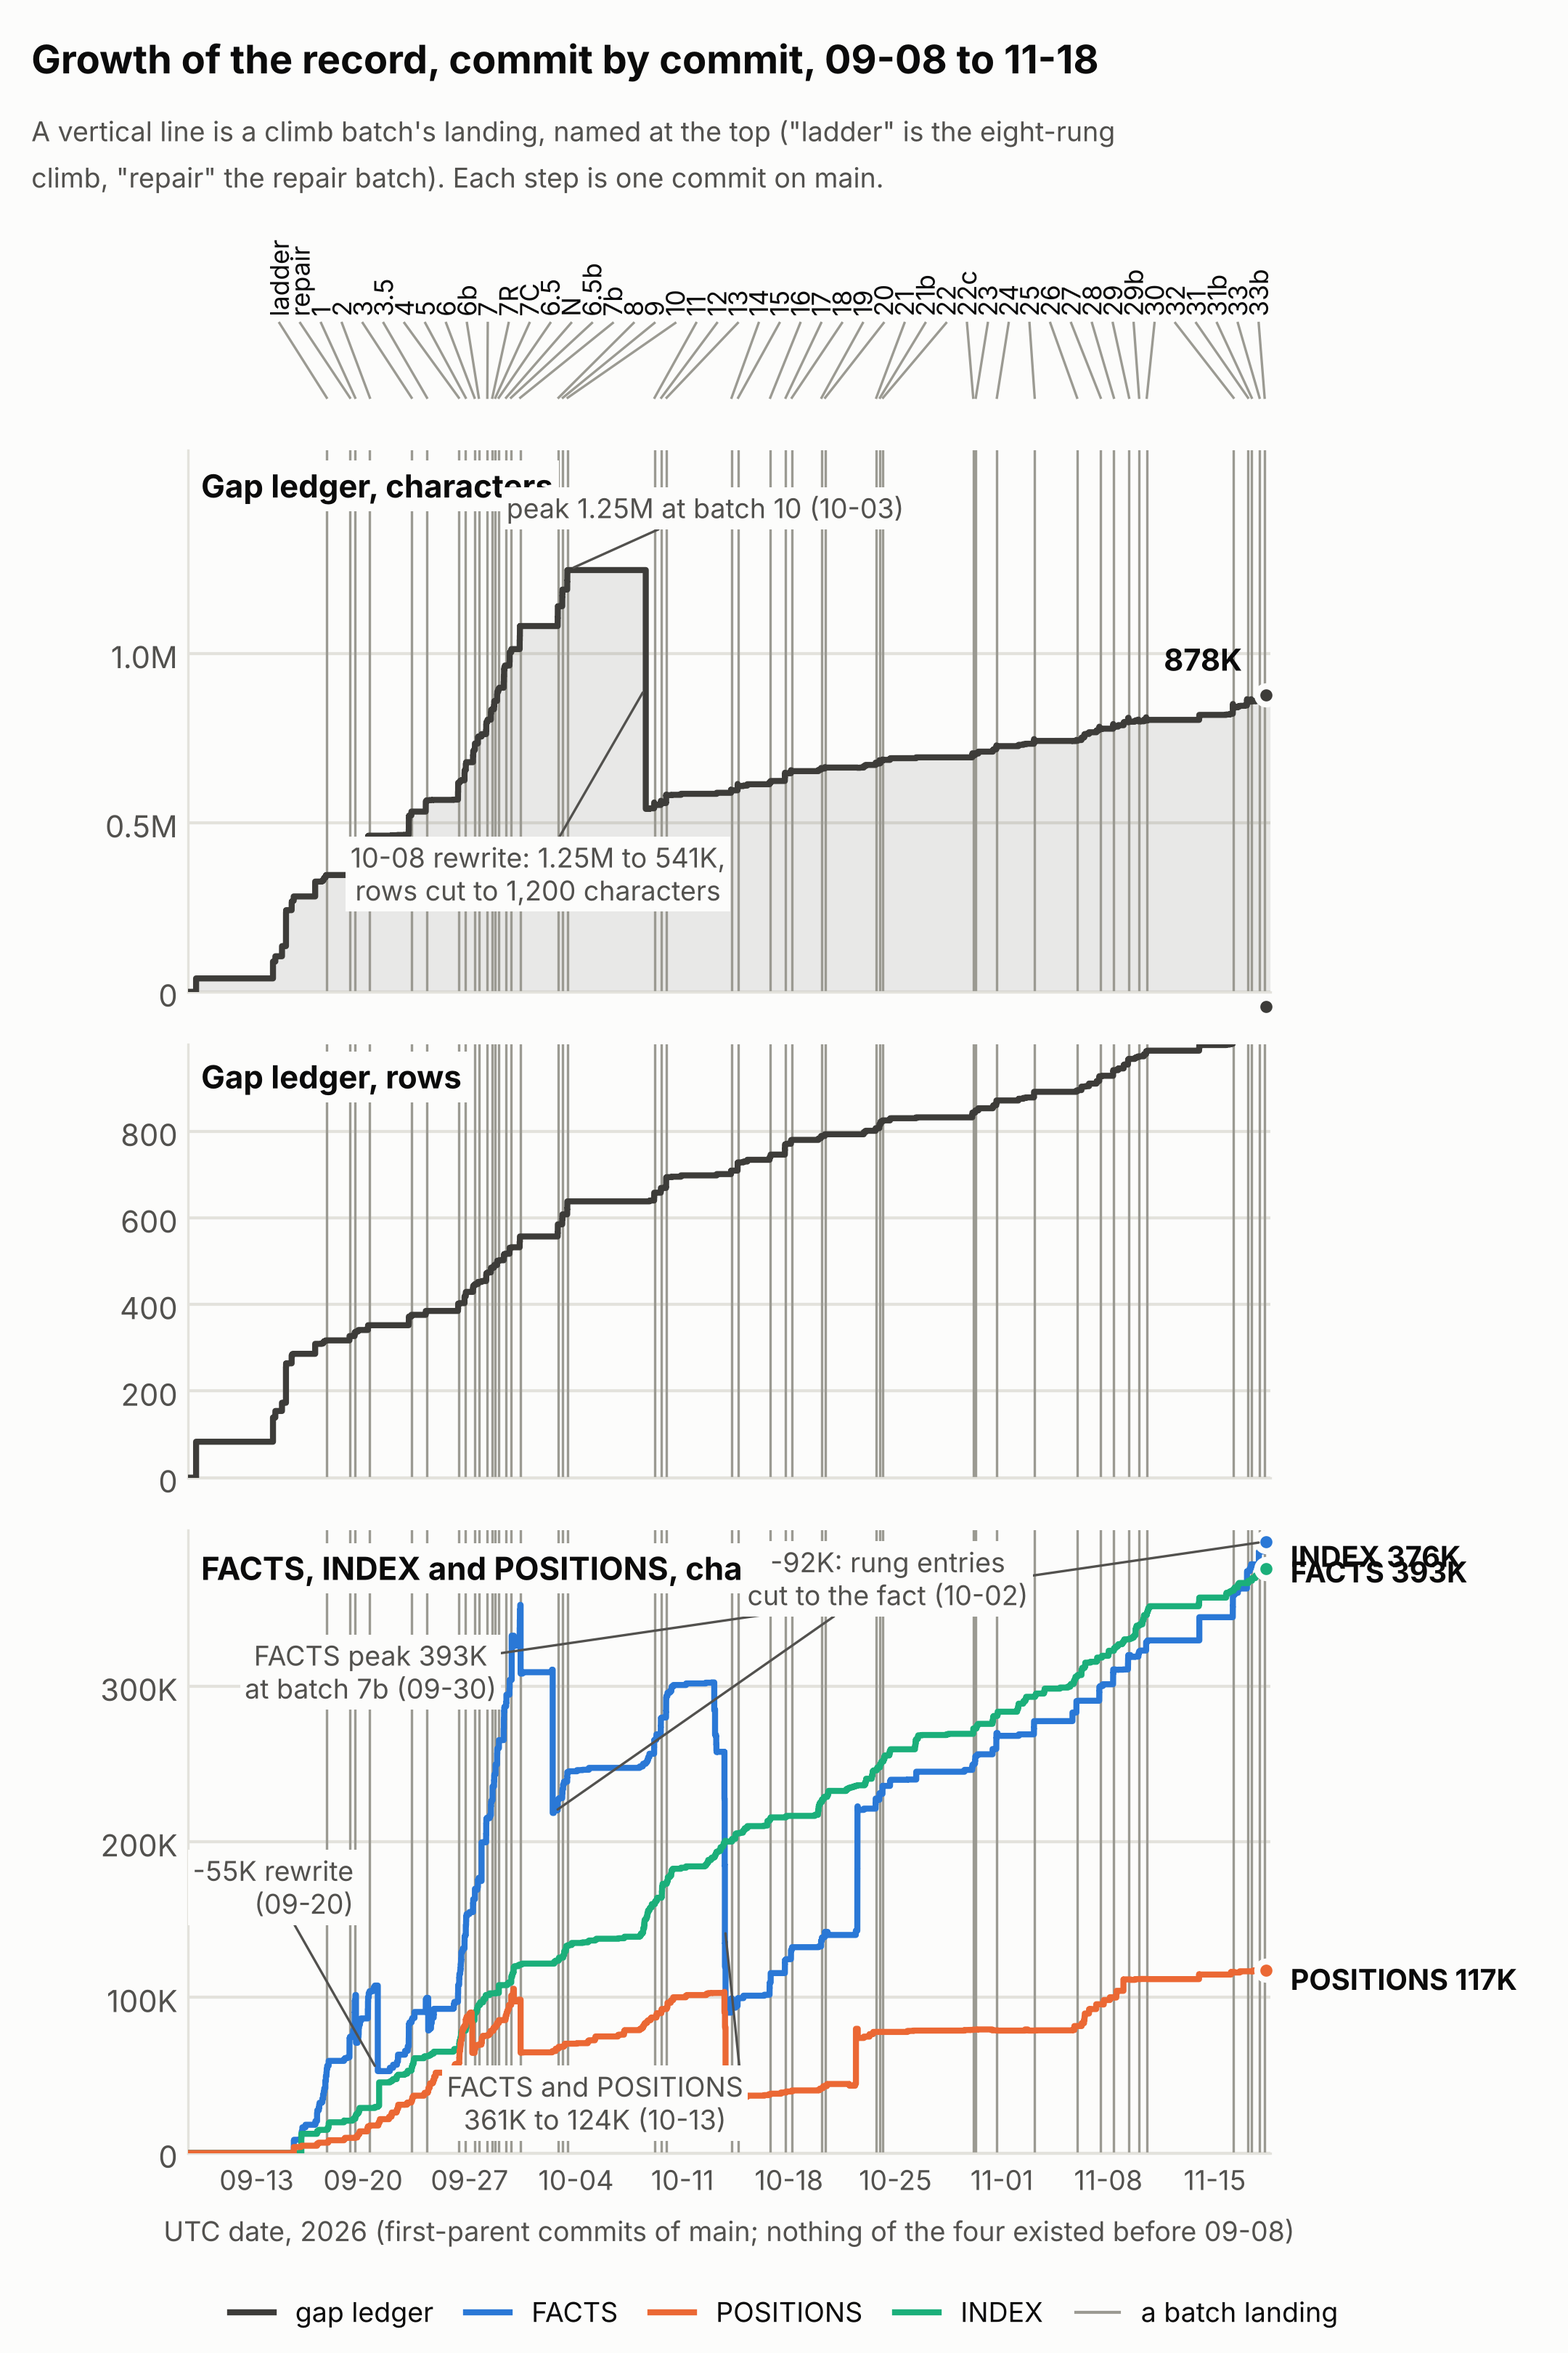
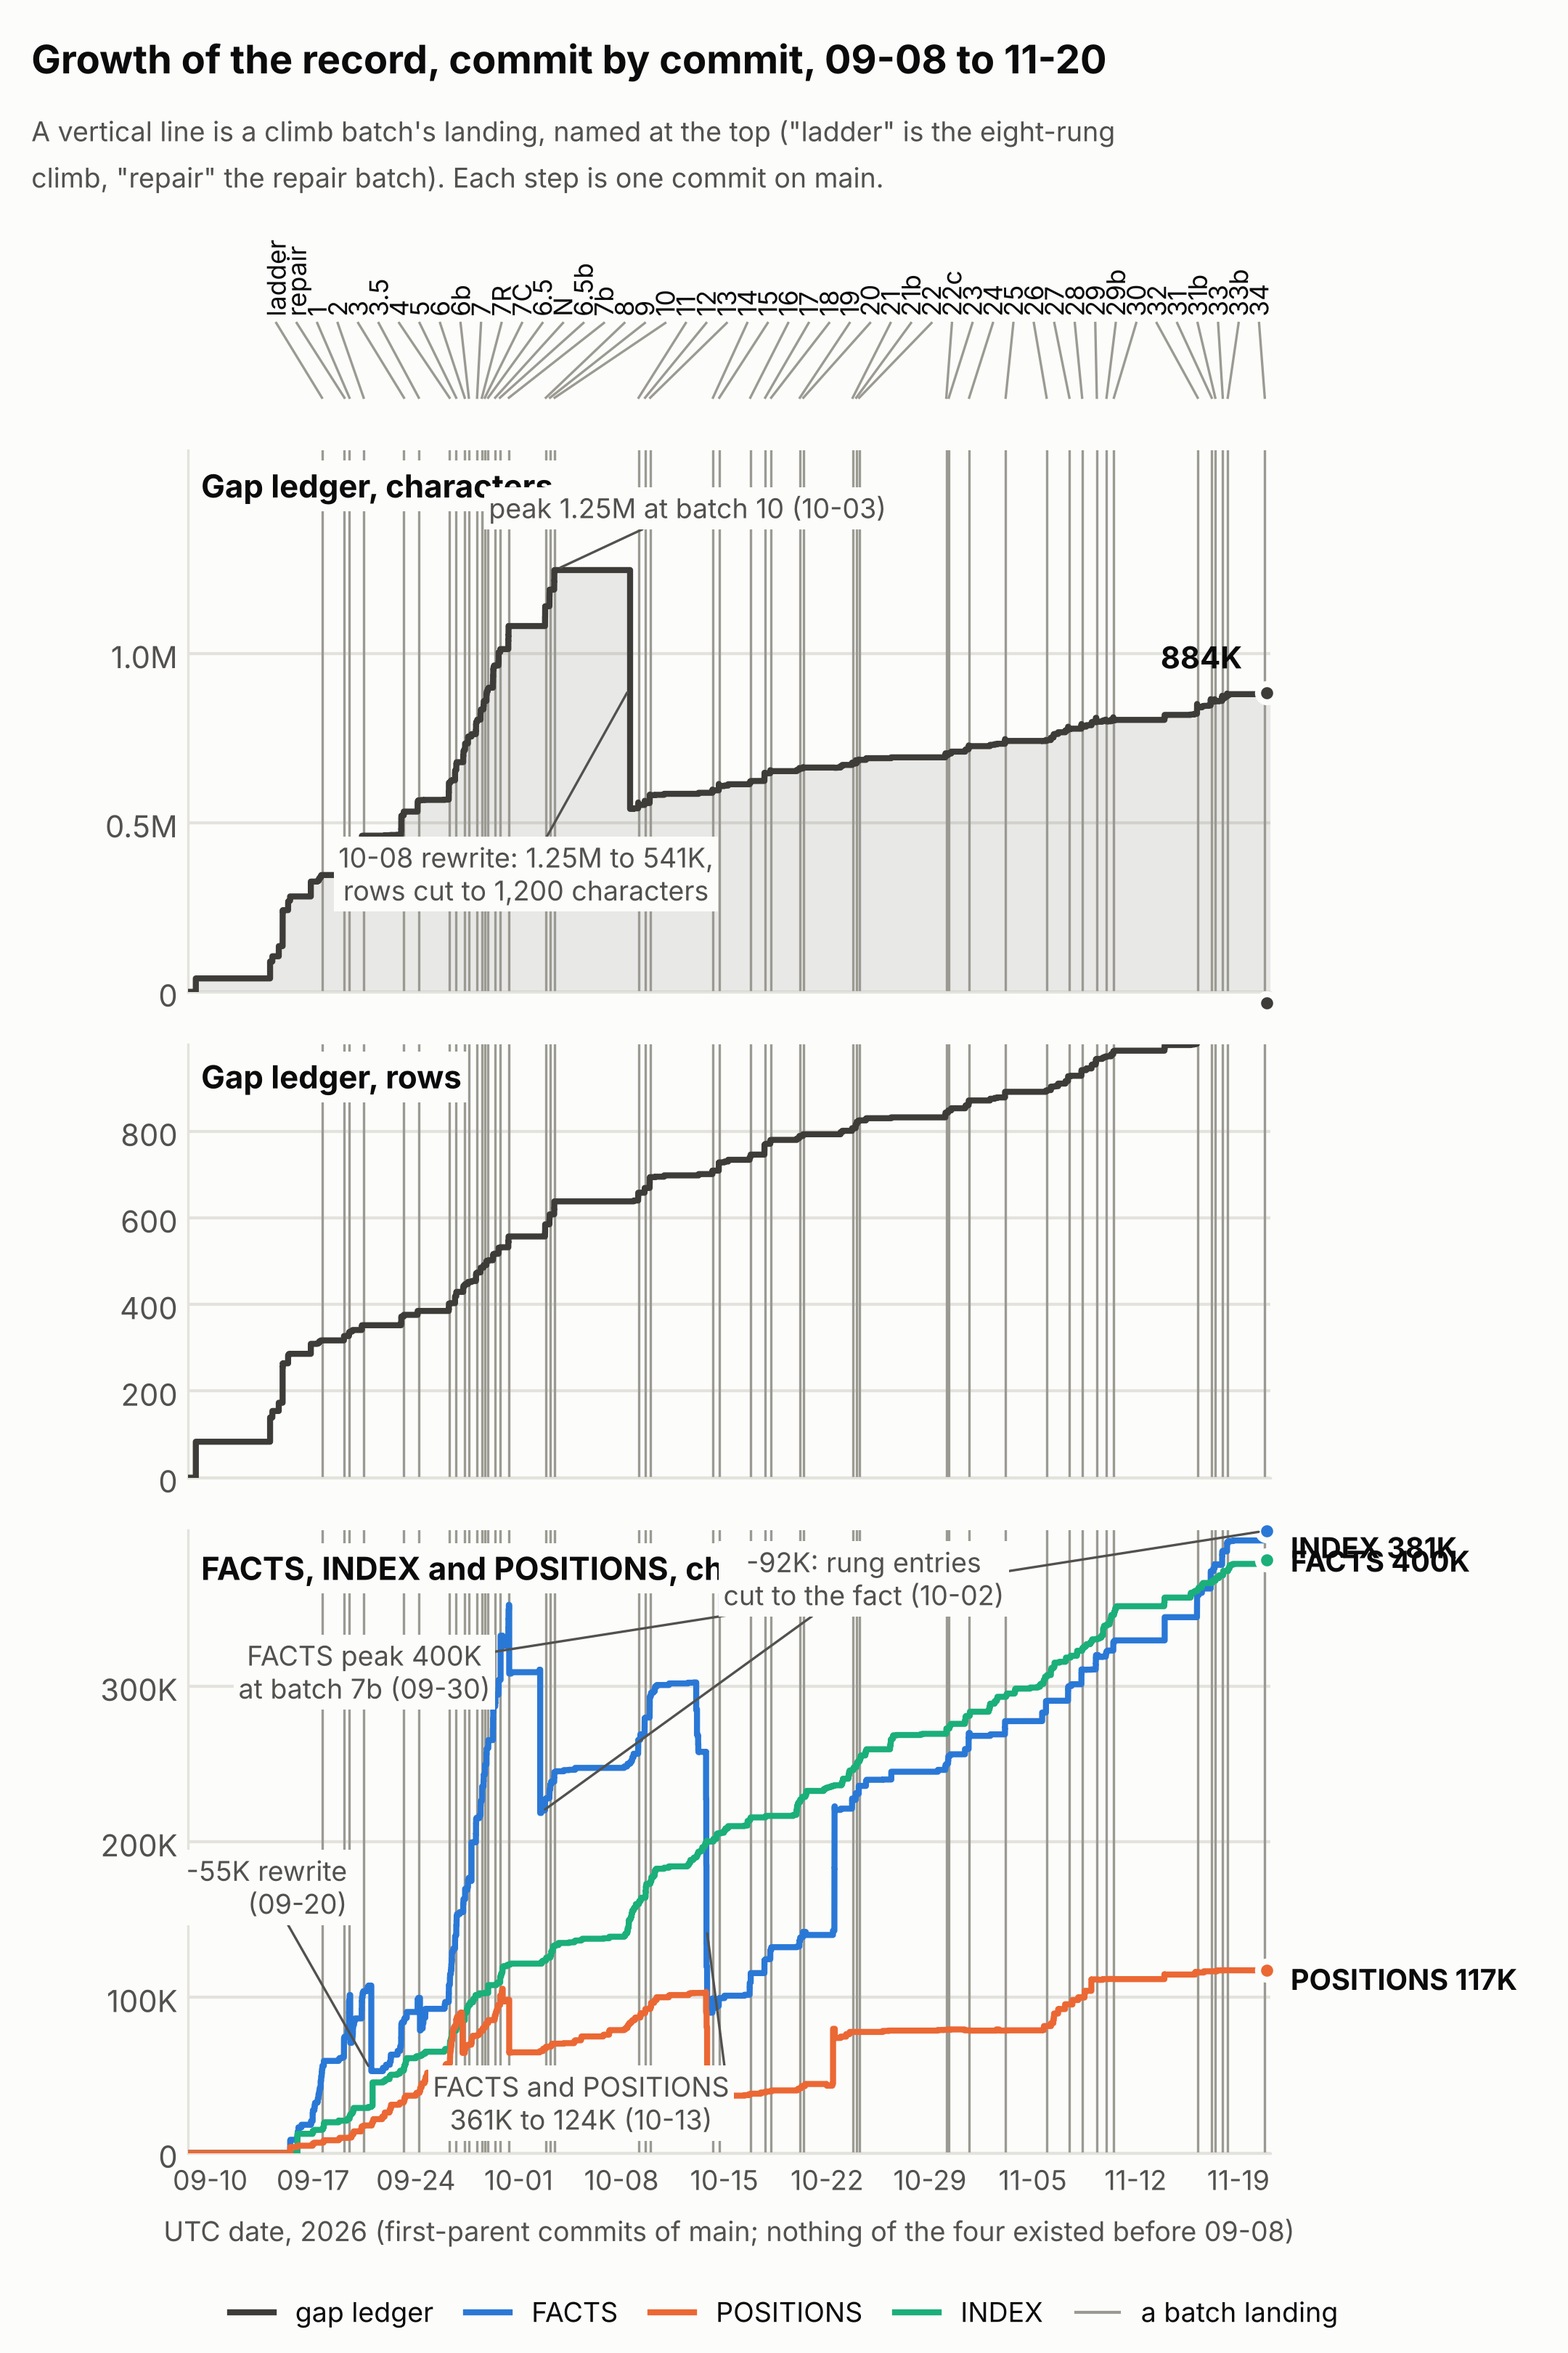
Revival page: where it stands at the landing of climb batch 34, the record chart regenerated
By the climb batch 34 landing workflow.

Claude-Session: https://claude.ai/code/session_01AmiXNpJxQ6TBwec4vJZHDB

Changed region(s): [[0.1241, 0.0935, 0.9306, 0.9352], [0.6824, 0.0, 0.7134, 0.0312]]

diff --git a/docs/revival-story/index.html b/docs/revival-story/index.html
@@ -201,7 +201,7 @@ details.words dl.gloss dd { margin-left: 1em; }
 <p>A script rewrites the block below at each landing, from the plan and the gate. The rest of the page changes only when a phase ends.</p>
 <div class="intro">
 <!-- stand:begin -->
-<p><strong>Where it stands, at the landing of batch 33b on 18 November 2026</strong></p>
+<p><strong>Where it stands, at the landing of batch 34 on 20 November 2026</strong></p>
 <ul>
 <li><strong>Phase:</strong> 4 of 6, which ends with the switch-over, since 30 October.</li>
 <li><strong>Checker count:</strong> 0.</li>
@@ -302,7 +302,7 @@ details.words dl.gloss dd { margin-left: 1em; }
 <section id="the-record" class="part">
 <h2>7. The record</h2>
 <p>The record is the project's notes, kept in the repository beside the team's code. Its main parts are the gap ledger (section 5), the list of facts, the list of the curator's decisions, and an index of all notes. An agent reads the parts its task needs before it starts, so no agent works out again what the record holds.</p>
-<figure><img src="record-growth.png" alt="The gap ledger&#x27;s characters and rows, and FACTS, POSITIONS and INDEX, commit by commit from 09-08 to 11-18, with each batch&#x27;s landing marked" width="1080" height="1620"></figure>
+<figure><img src="record-growth.png" alt="The gap ledger&#x27;s characters and rows, and FACTS, POSITIONS and INDEX, commit by commit from 09-08 to 11-20, with each batch&#x27;s landing marked" width="1080" height="1620"></figure>
 <p>The chart has three panels on one time axis, with a vertical line at each batch's landing. They show the ledger's characters, its rows, and the sizes of the facts, the decisions and the index. The ledger grows mostly while batches run, and the index by one line for each new note. Each sharp fall is a rewrite that shortened the entries, with the earlier text kept in history.</p>
 </section>
 <footer>

diff --git a/explorations/coordinator/process-engineering/revival-story.html b/explorations/coordinator/process-engineering/revival-story.html
@@ -194,7 +194,7 @@ details.words dl.gloss dd { margin-left: 1em; }
 <p>A script rewrites the block below at each landing, from the plan and the gate. The rest of the page changes only when a phase ends.</p>
 <div class="intro">
 <!-- stand:begin -->
-<p><strong>Where it stands, at the landing of batch 33b on 18 November 2026</strong></p>
+<p><strong>Where it stands, at the landing of batch 34 on 20 November 2026</strong></p>
 <ul>
 <li><strong>Phase:</strong> 4 of 6, which ends with the switch-over, since 30 October.</li>
 <li><strong>Checker count:</strong> 0.</li>
@@ -295,7 +295,7 @@ details.words dl.gloss dd { margin-left: 1em; }
 <section id="the-record" class="part">
 <h2>7. The record</h2>
 <p>The record is the project's notes, kept in the repository beside the team's code. Its main parts are the gap ledger (section 5), the list of facts, the list of the curator's decisions, and an index of all notes. An agent reads the parts its task needs before it starts, so no agent works out again what the record holds.</p>
-<figure><img src="record-growth.png" alt="The gap ledger&#x27;s characters and rows, and FACTS, POSITIONS and INDEX, commit by commit from 09-08 to 11-18, with each batch&#x27;s landing marked" width="1080" height="1620"></figure>
+<figure><img src="record-growth.png" alt="The gap ledger&#x27;s characters and rows, and FACTS, POSITIONS and INDEX, commit by commit from 09-08 to 11-20, with each batch&#x27;s landing marked" width="1080" height="1620"></figure>
 <p>The chart has three panels on one time axis, with a vertical line at each batch's landing. They show the ledger's characters, its rows, and the sizes of the facts, the decisions and the index. The ledger grows mostly while batches run, and the index by one line for each new note. Each sharp fall is a rewrite that shortened the entries, with the earlier text kept in history.</p>
 </section>
 <footer>

diff --git a/explorations/coordinator/process-engineering/revival-story.md b/explorations/coordinator/process-engineering/revival-story.md
@@ -124,7 +124,7 @@ A reading is one interpretation of a rule where the specification's text allows 
 A script rewrites the block below at each landing, from the plan and the gate. The rest of the page changes only when a phase ends.
 
 <!-- stand:begin -->
-**Where it stands, at the landing of batch 33b on 18 November 2026**
+**Where it stands, at the landing of batch 34 on 20 November 2026**
 
 - **Phase:** 4 of 6, which ends with the switch-over, since 30 October.
 - **Checker count:** 0.
